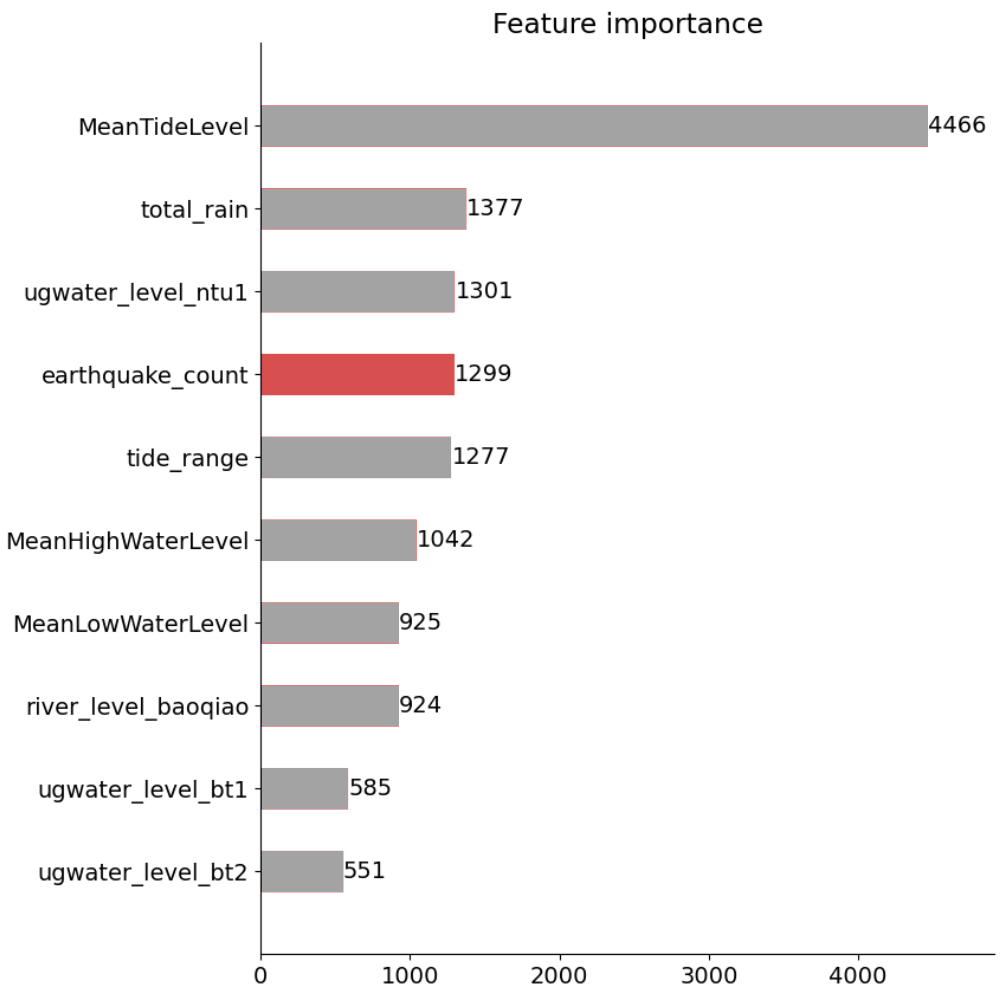
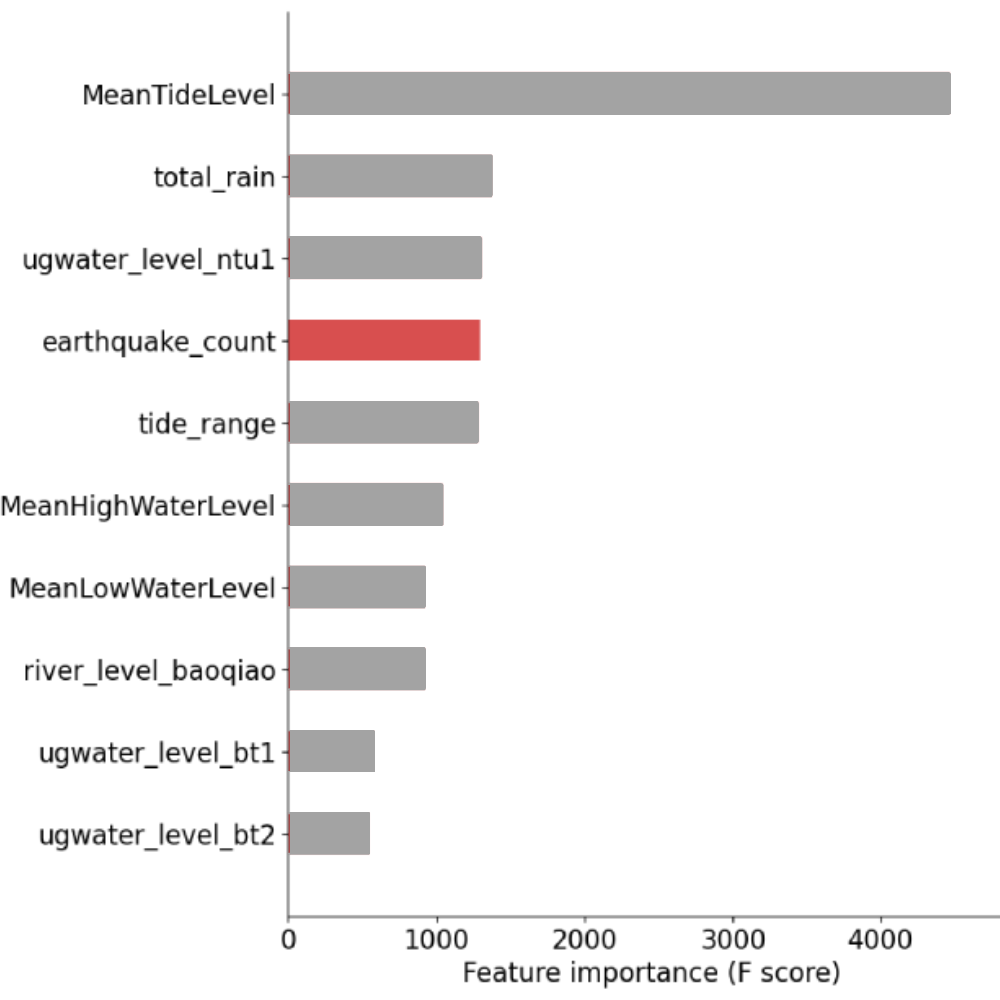
Add_images

Changed region(s): [[0.0, 0.031, 1.0, 0.992], [0.496, 0.0, 0.775, 0.031]]

diff --git a/src/assets/lang/ch.js b/src/assets/lang/ch.js
@@ -73,7 +73,7 @@ export const ch = {
 		text4: "結果顯示，地震數量排名第四，屬於重要特徵且具有一定影響力。類似人為因素如地基開挖，也有可能造成土壤鬆動導致塌陷，但多數情況是因側向支撐擋土壁施作所致。",
 		"captiontitle3-1": "2019-2022篩選地震範圍",
 		"captiontext3-1": "",
-		"captiontitle3-2": "特徵重要性",
+		"captiontitle3-2": "時間成因重要性",
 		"captiontext3-2": "",
 		text5: "然而，土壤震鬆後短時間內仍不會立即發生掏空，還需要水流沖刷來加劇這一過程。那麼，水的來源有哪些呢？",
 	},
@@ -83,6 +83,10 @@ export const ch = {
 		subtitle: "掏空與月雨量有關嗎？",
 		text1: "相較於颱風帶來的短期強降雨，月雨量則屬於長期影響土壤水分的重要因素。",
 		text2: "根據中央氣象署歷史氣象資料中，臺北測站的月雨量資料進行時間序列分析，月雨量在特徵重要性中排名第二，屬於重要特徵。然而，其相關性屬於低度相關，表示月雨量與掏空案件數量可能存在非線性關係。",
+		"captiontitle3-1": "時間成因重要性",
+		"captiontext3-1": "",
+		"captiontitle3-2": "月雨量與掏空案件數量散布圖",
+		"captiontext3-2": "",
 		text4: "降雨落至地面後，除了匯聚至排水溝，部分也會被土壤吸收成為地下水。那麼，地下水是否對掏空案件數量有影響呢？",
 	},
 	"time-4": {
@@ -91,6 +95,10 @@ export const ch = {
 		subtitle: "掏空與地下水位有關嗎？",
 		text1: "地下水位不僅受地層與土壤類型影響而有不同分布，降雨後下滲的水量亦會影響水位。若地下水位較高，水分進入土壤中影響土壤穩定性，亦可能間接導致掏空發生。",
 		text2: "根據臺北市的九個地下水位測站的資料，取各測站每月水位的中位數作為該月數值代表，觀察其是否屬於重要特徵。結果顯示，臺大測站之地下水位重要性排行第三，但其相關係數卻很低，亦可能存在非線性關係。",
+		"captiontitle3-1": "時間成因重要性",
+		"captiontext3-1": "",
+		"captiontitle3-2": "地下水位與掏空案件數量散布圖",
+		"captiontext3-2": "",
 		text4: "土壤中的水分經過地下後，一部分會再匯聚出地表流入河川。那麼，河川水位本身是否也會對道路掏空造成影響呢？",
 	},
 	"time-5": {
@@ -99,6 +107,10 @@ export const ch = {
 		subtitle: "掏空與河川水位有關嗎？",
 		text1: "根據過往研究，河川水位的高低會影響河川周遭地區的地下水位。而地下水位若改變，亦可能影響道路掏空案件發生的機率。",
 		text2: "以臺北市內的二個河川水位測站2019至2022年的資料，並取各月水位中位數為該月代表觀察，結果顯示，河川水位的特徵重要性僅排在第八位，相關性也很低（寶橋測站0.12、萬福橋測站0.047），應與掏空案件數量無關。",
+		"captiontitle3-1": "時間成因重要性",
+		"captiontext3-1": "",
+		"captiontitle3-2": "河川水位與掏空案件數量散布圖",
+		"captiontext3-2": "",
 		text4: "如果說河川的水最終會匯聚到大海，那麼潮位是否也會影響道路掏空呢？",
 	},
 	"time-6": {
@@ -107,6 +119,10 @@ export const ch = {
 		subtitle: "掏空與潮位有關嗎？",
 		text1: "2023年的天坑案件中，南京西路一案報導提及疑似因潮位影響加上排水管破洞，導致土石長期被沖刷帶走。由此來看，潮位似乎也是潛在掏空成因之一。",
 		text2: "以位於淡水紅毛城附近的潮位站作為潮位代表進行分析，並以該月平均潮位做為代表。結果出乎意料，平均潮位是排名第一的重要特徵，而相關性亦接近中度相關(0.39)。第一線的路隊人員也反映，自過往經驗來看，潮位確實對道路掏空有影響。",
+		"captiontitle3-1": "時間成因重要性",
+		"captiontext3-1": "",
+		"captiontitle3-2": "河川水位與掏空案件數量散布圖",
+		"captiontext3-2": "",
 		text4: "至此，時間成因已經探索完畢，接下來將從地理空間特質切入，細探相關空間成因。",
 	},
 	"space-1": {

diff --git a/src/assets/articles.js b/src/assets/articles.js
@@ -45,7 +45,7 @@ export const articles = [
 		title: "time-4",
 		icon: "water_drop",
 		isCause: true,
-		content: ["text", "text", "img", "text"],
+		content: ["text", "text", "dbimgcaption", "text"],
 	},
 	{
 		section: "time",
@@ -53,7 +53,7 @@ export const articles = [
 		title: "time-5",
 		icon: "sailing",
 		isCause: false,
-		content: ["text", "text", "img", "text"],
+		content: ["text", "text", "dbimgcaption", "text"],
 	},
 	{
 		section: "time",
@@ -61,7 +61,7 @@ export const articles = [
 		title: "time-6",
 		icon: "tsunami",
 		isCause: true,
-		content: ["text", "text", "img", "text"],
+		content: ["text", "text", "dbimgcaption", "text"],
 	},
 	{
 		section: "space",
